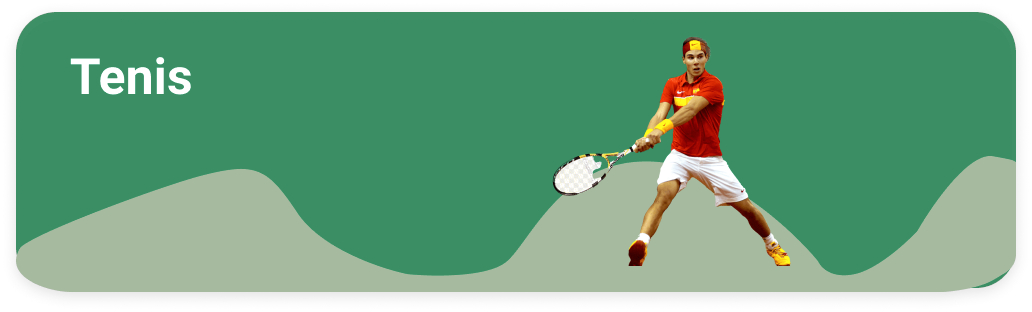
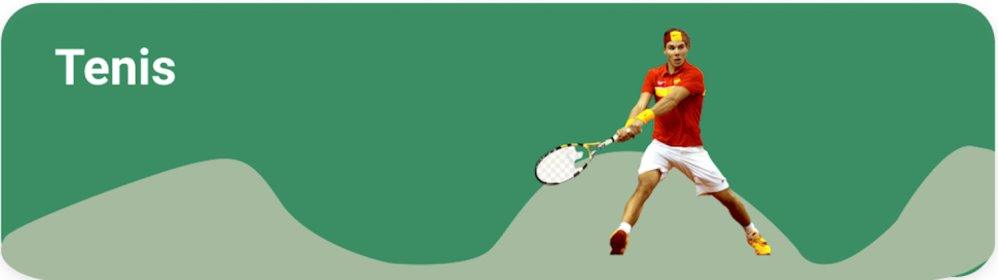
portada actividades

Changed region(s): [[0.0, 0.0, 1.0, 1.0]]

diff --git a/framework-php-bootstrap/actividadesPortada.php b/framework-php-bootstrap/actividadesPortada.php
@@ -29,7 +29,7 @@
                 </div>  
                 <div class="row">
                     <div class="col">
-                    <a href="actividadesTenis.php"><img class="img-fluid" src="assets\img\imgActividades\tenis.jpg" alt="Card image"></a>
+                    <a href="actividadesTenis.php"><img class="img-fluid p-1" src="assets\img\imgActividades\tenis.jpg" alt="Card image"></a>
                     </div>
                 </div>  
                 <div class="row">
@@ -42,7 +42,7 @@
                 <div class="col-lg-6">
                 <div class="row">
                     <div class="col">
-                    <a href="actividadesPadel.php"><img class="img-fluid" src="assets\img\imgActividades\padel.jpg" alt="Card image"></a>
+                    <a href="actividadesPadel.php"><img class="img-fluid p-1" src="assets\img\imgActividades\padel.jpg" alt="Card image"></a>
                     </div>
                 </div>  
                 <div class="row">
